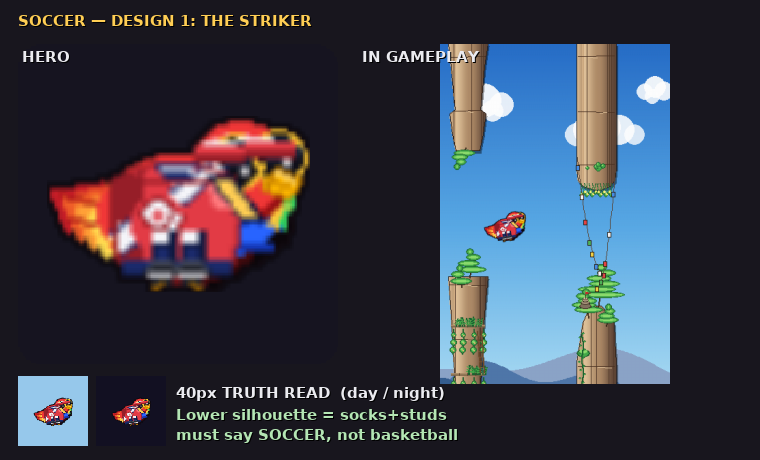
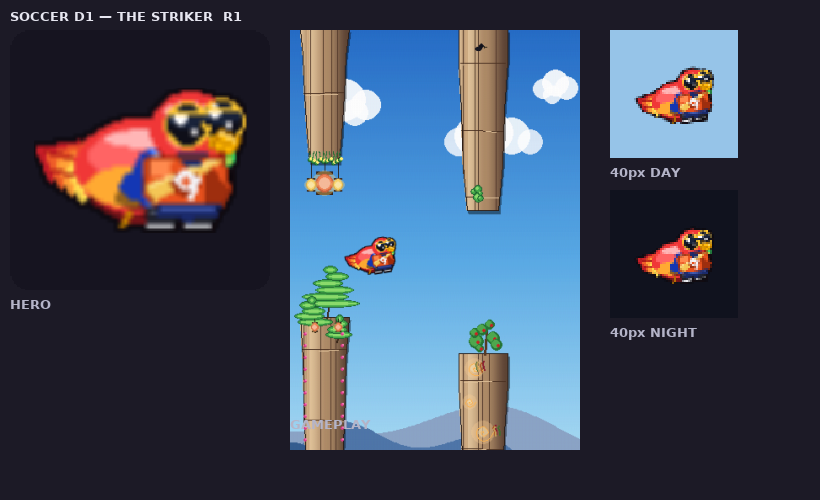
Soccer costume design 1 (THE STRIKER) v2: anchor jersey at head
Re-seat the striker kit off the HX,HY head anchor using the proven baseball
SLUGGER jersey polygon (top y=49, hem y=64) so the shirt sits below the macaw
head instead of rising into the face. Drop the forehead sweatband entirely —
soccer players wear no brow band — keeping the crown open. Vivid scarlet-orange
jersey with a white "9", gold diagonal sash, navy shorts band, and navy
knee-high socks into dark boots carry the football read at 40px.

Claude-Session: https://claude.ai/code/session_01HafGQfRZVDiGkQqpJPr5Cm

diff --git a/tools/soccer_candidates/design_1.py b/tools/soccer_candidates/design_1.py
@@ -1,23 +1,21 @@
-"""DESIGN 1 — THE STRIKER (Soccer / Football).
+"""DESIGN 1 — THE STRIKER (Soccer / Football), v2.
 
-Scratch exploration only — NOT registered in store_skins.BUILDERS. Pip the
-scarlet macaw kitted as a modern outfield striker. The read is carried by the
-full LEG KIT: two tall, CHUNKY knee-high SOCKS spread into distinct vertical
-pillars, each with a white hoop band and a dark forward-pointing CLEAT wedge
-under it. That socks+boots silhouette is the unmistakable football tell and the
-deliberate break from the basketball build — a hooper has bare calves + baggy
-shorts + sneakers, a striker has long socks and studded boots, so the LOWER
-silhouette must win the read.
+Scratch exploration only — NOT registered in store_skins.BUILDERS, so production
+is untouched. Pip the scarlet macaw kitted as a modern outfield striker.
 
-The kit is painted OVER the scarlet body (the head stays the macaw so Pip still
-reads as a parrot). A solid jersey carries a single diagonal team SASH; one
-small "9" sits low-left so a single white focal wins at 40px. The upper body is
-kept quiet (no armband) so nothing competes with the leg kit. Three cloth values
-keep the jersey reading round through the 40px downscale; dark contours hold
-every shape. Footprint law: socks+cleats sit on the feet line (~HY+13..28),
-nothing balloons the torso, only a thin sweatband touches the brow (crown open).
+v2 fix: the kit now hangs off the HEAD anchor (HX,HY) instead of the old body
+centre, using the EXACT jersey polygon proven on the baseball SLUGGER build —
+top at y=HY+8 (=49), hem at HY+23 (=64). That seats the shirt cleanly BELOW the
+macaw head; nothing rises above y=49 into the face. NO headband — soccer players
+wear no forehead band, so the crown stays open like the ball-cap baseball look.
 
-Headless render: tools/soccer_candidates/render_design_1.py.
+The read is carried by (1) a vivid scarlet-orange jersey with a bold white "9"
+and a diagonal gold sash — louder/more orange than macaw plumage so it reads as
+worn cloth, and (2) the full LEG KIT below the hem: two tall navy knee-high
+socks (each with a white hoop) dropping into dark forward-pointing boots. That
+socks+boots silhouette is the unmistakable football tell. Three cloth values
+keep the jersey round at 40px; a dark-navy contour ring holds the shape through
+the downscale.
 """
 import pygame
 
@@ -25,154 +23,116 @@ from game import store_skins
 from game.store_skins import HX, HY, CROWN_Y, _poly
 
 
-# Scarlet kit (a value above Pip's natural red so the cloth reads as worn, not
-# plumage), navy trim, white squad mark, near-black cleats. Three scarlet values
-# give the jersey roundness; the dark contour survives downscale. The socks get a
-# bright rim tone so the outer calf edge holds against the NIGHT sky.
-_SOC_RED    = (226, 59, 69)         # #E23B45 jersey scarlet
-_SOC_RED_D  = (150, 30, 40)         # cloth shadow / contour
-_SOC_RED_H  = (255, 120, 124)       # lit shoulder / chest highlight
-_SOC_WHITE  = (244, 244, 248)       # #F4F4F8 white sash / number / sole
-_SOC_NAVY   = (27, 42, 107)         # #1B2A6B navy trim / collar / sock body
-_SOC_NAVY_D = (16, 25, 64)          # navy shadow / sock contour
-_SOC_NAVY_H = (70, 92, 178)         # sock lit face / outer rim-light
-_SOC_CLEAT  = (35, 37, 46)          # #23252E cleat
-_SOC_CLEAT_H= (78, 84, 102)         # cleat upper sheen
-
-
-# Body centre in composite space (parrot body centre (32,32) + PARROT_DY=20).
-BCX, BCY = 32, 52
+# Scarlet-ORANGE kit (pushed orange so it separates from Pip's red plumage and
+# reads as a worn shirt), gold sash, white squad mark, dark-navy trim + socks,
+# near-black boots. Three jersey values give roundness; the navy contour and the
+# sock rim-light survive the downscale on both day and night sky.
+_SOC_ORN    = (232, 82, 30)         # #E8521E scarlet-orange jersey body
+_SOC_ORN_D  = (158, 46, 14)         # cloth shadow / contour ring
+_SOC_ORN_H  = (255, 138, 78)        # lit shoulder / chest highlight
+_SOC_WHITE  = (244, 244, 248)       # #F4F4F8 squad number / hoops / sole tick
+_SOC_GOLD   = (244, 198, 86)        # #F4C656 diagonal shoulder sash
+_SOC_GOLD_H = (255, 228, 150)       # sash glint
+_SOC_NAVY   = (27, 42, 107)         # #1B2A6B shorts band + sock body + contour
+_SOC_NAVY_D = (15, 23, 60)          # near-black sock core / navy shadow
+_SOC_NAVY_H = (74, 98, 184)         # sock lit face / outer rim-light
+_SOC_BOOT   = (32, 34, 44)          # near-black boot
+_SOC_BOOT_H = (90, 96, 114)         # boot instep sheen
 
 
 def _sock_and_boot(surf, fx, lit_side):
-    """One CHUNKY knee-high sock as a solid filled calf + a forward-pointing
-    boot wedge under it. `lit_side` is +1 (light from the right) / -1 so the
-    outer edge of each leg catches the rim-light against the night sky. Built
-    as filled polys — not strokes — so each leg survives the 40px downscale as a
-    distinct vertical pillar, the loudest mass below the torso."""
-    # Composite Y: the base macaw body bottoms out at y~69, so the calf emerges
-    # from under the belly (top ~58) and the ankle sits at the body floor (~70);
-    # the boot wedge breaks just past it (to ~74), mirroring how the baseball
-    # cleats poke the lower outline. This keeps the socks the loudest mass BELOW
-    # the torso instead of buried inside it.
-    top, bot = 58, 70                # tall calf, knee-under-hem to ankle
-    # Solid navy calf: a tall, NARROW tapered pillar (3px half-width) so the two
-    # legs read as two distinct vertical columns with sky between them — not a
-    # single horizontal bar. Dark contour underlay first.
-    calf = [(fx - 3, top), (fx + 3, top), (fx + 2, bot), (fx - 2, bot)]
-    _poly(surf, _SOC_NAVY_D, [(x - lit_side, y) for x, y in calf])   # contour shift
-    _poly(surf, _SOC_NAVY, calf)
-    # Lit front face — a vertical slab down the inner body so the calf reads round.
+    """One navy knee-high sock as a tall solid pillar + a forward-pointing boot
+    wedge under it. `lit_side` (+1 light from the right / -1) steers the rim-light
+    onto the OUTER calf edge so neither leg vanishes on night sky. Built as filled
+    polys so each leg holds as a distinct vertical column after the 40px downscale.
+    Spans HY+13..HY+24 so the calves emerge from under the shorts hem and the boot
+    pokes the lower outline like the baseball cleats."""
+    top, bot = HY + 13, HY + 24      # knee-under-hem to ankle (y=54..65)
+    # Near-black core pillar (narrow tapered column) under everything, contour-
+    # shifted to the outer side so the column reads round, not flat.
+    core = [(fx - 3, top), (fx + 3, top), (fx + 2, bot), (fx - 2, bot)]
+    _poly(surf, _SOC_NAVY_D, [(x - lit_side, y) for x, y in core])   # contour
+    _poly(surf, _SOC_NAVY, core)
+    # Lit mid-navy front face down the inner column so the calf reads cylindrical.
     face = [(fx, top), (fx + lit_side * 3, top),
             (fx + lit_side * 2, bot), (fx, bot)]
     _poly(surf, _SOC_NAVY_H, face)
-    # White hoop band — a FULL 2px cross-stripe spanning the whole calf width,
-    # set near the top of the sock (the classic kit stripe).
-    hb = top + 4
+    # White hoop band near the sock top — the classic kit stripe, full calf width.
+    hb = top + 3
     pygame.draw.line(surf, _SOC_WHITE, (fx - 3, hb), (fx + 3, hb), 2)
     pygame.draw.line(surf, _SOC_NAVY_D, (fx - 3, hb + 2), (fx + 3, hb + 2), 1)
-    # 1px rim-light tracing the OUTER calf edge so the sock holds on night sky.
+    # Rim-light tracing the OUTER calf edge so the sock holds on the night sky.
     rx = fx + lit_side * 3
     pygame.draw.line(surf, _SOC_NAVY_H, (rx, top + 1), (rx - lit_side, bot - 1), 1)
 
-    # Forward-pointing BOOT WEDGE: a compact solid dark cleat, toe to the FORWARD
-    # (right) side, with one bright white sole edge underneath. No stud ticks —
-    # sub-pixel noise at 40px; the wedge silhouette alone says "studded boot, not
-    # sneaker". Kept short + only just wider than the calf so the two boots stay
-    # separate and never bridge into one bar.
-    ax, ay = fx, bot                 # ankle pivot at the body floor
+    # Forward-pointing BOOT WEDGE — a compact dark cleat, toe to the FORWARD
+    # (right) side, with one bright sole tick beneath. Mirrors the SLUGGER cleat
+    # placement: short + only just wider than the calf so the two boots stay
+    # separate and never bridge into a single bar.
+    ax, ay = fx, bot
     wedge = [(ax - 3, ay - 1), (ax + 1, ay - 1), (ax + 5, ay + 2),
              (ax + 4, ay + 4), (ax - 3, ay + 4)]
-    _poly(surf, (12, 13, 18), [(x, y + 1) for x, y in wedge])         # drop shadow
-    _poly(surf, _SOC_CLEAT, wedge)
-    # Boot upper sheen along the laced instep so the dark mass reads as leather.
-    pygame.draw.line(surf, _SOC_CLEAT_H, (ax - 2, ay), (ax + 3, ay + 1), 1)
-    # Bright white sole running the length of the wedge underside — the studded
-    # boot's giveaway line.
-    pygame.draw.line(surf, _SOC_WHITE, (ax - 3, ay + 4), (ax + 4, ay + 4), 1)
+    _poly(surf, (12, 13, 18), [(x, y + 1) for x, y in wedge])        # drop shadow
+    _poly(surf, _SOC_BOOT, wedge)
+    pygame.draw.line(surf, _SOC_BOOT_H, (ax - 2, ay), (ax + 3, ay + 1), 1)  # instep
+    pygame.draw.line(surf, _SOC_WHITE, (ax - 3, ay + 4), (ax + 4, ay + 4), 1)  # sole tick
 
 
 def _paint(surf, _a):
-    # --- Tall team SOCKS + cleats at the feet line (THE soccer read) ------------
-    # Drawn FIRST so the short-shorts hem laps over the sock tops and the legs
-    # read as worn under the kit. Two distinct pillars: outer leg lit on its
-    # outer edge so neither sock vanishes on night sky.
-    _sock_and_boot(surf, 27, lit_side=-1)   # far leg, rim-light on its left edge
-    _sock_and_boot(surf, 39, lit_side=+1)   # near leg, rim-light on its right edge
+    # ── LEG KIT first (socks + boots) so the navy shorts band laps over the sock
+    #    tops and the legs read as worn UNDER the shorts. Two distinct pillars at
+    #    the feet line; outer edge of each is rim-lit so neither sock vanishes.
+    _sock_and_boot(surf, HX - 10, lit_side=-1)   # far leg, rim-light on its left
+    _sock_and_boot(surf, HX + 1,  lit_side=+1)   # near leg, rim-light on its right
 
-    # --- Solid team JERSEY over the torso ---------------------------------------
-    # One clean scarlet block clipped to the chest. Top at the shoulders, hem at
-    # ~BCY+11 so it stays inside the bird footprint; sleeve caps reach the wing
-    # roots so it reads as worn, not a bib. Fill → side shade → lit edge gives
-    # the cloth three values so it stays round after the downscale.
-    jersey = [(BCX - 15, BCY - 9), (BCX - 16, BCY - 1), (BCX - 14, BCY + 11),
-              (BCX + 13, BCY + 11), (BCX + 15, BCY - 1), (BCX + 13, BCY - 9),
-              (BCX + 4, BCY - 12), (BCX - 6, BCY - 12)]
-    _poly(surf, _SOC_RED, jersey)
-    # Far side falls into shadow; near shoulder catches the light.
-    _poly(surf, _SOC_RED_D, [(BCX - 15, BCY - 9), (BCX - 16, BCY - 1),
-                             (BCX - 14, BCY + 11), (BCX - 8, BCY + 11),
-                             (BCX - 9, BCY - 10)])
-    _poly(surf, _SOC_RED_H, [(BCX + 4, BCY - 12), (BCX + 13, BCY - 9),
-                             (BCX + 15, BCY - 1), (BCX + 9, BCY - 2),
-                             (BCX + 6, BCY - 11)])
+    # ── JERSEY — the EXACT baseball-SLUGGER polygon at the HX,HY anchor (top
+    #    y=HY+8=49, hem y=HY+23=64), so the shirt seats cleanly BELOW the head and
+    #    nothing rises into the face. Scarlet-orange fill → off-side shade → near
+    #    shoulder highlight gives the cloth three values so it stays round at 40px.
+    jersey = [(HX - 13, HY + 8), (HX - 14, HY + 18), (HX - 10, HY + 23),
+              (HX + 8, HY + 23), (HX + 11, HY + 18), (HX + 9, HY + 8)]
+    _poly(surf, _SOC_ORN, jersey)
+    _poly(surf, _SOC_ORN_D, [(HX + 4, HY + 9), (HX + 11, HY + 18),
+                             (HX + 8, HY + 23), (HX + 5, HY + 22)])   # off-side shade
+    _poly(surf, _SOC_ORN_H, [(HX - 12, HY + 9), (HX - 6, HY + 9),
+                             (HX - 7, HY + 14), (HX - 13, HY + 13)])  # lit shoulder
 
-    # --- Diagonal team SASH across the chest ------------------------------------
-    # A single white band running shoulder-to-hip — the modern outfield mark, and
-    # the ONE white focal up top. Clipped to the cloth so it never leaks past the
-    # contour; a navy edge crisps it for the downscale.
+    # ── DIAGONAL GOLD shoulder sash, shoulder-to-hip — the modern outfield mark.
+    #    Clipped to the jersey box so it never leaks past the contour; a glint line
+    #    keeps it bright against the night sky.
     clip_prev = surf.get_clip()
-    surf.set_clip(pygame.Rect(BCX - 16, BCY - 12, 32, 24))
-    sash = [(BCX - 16, BCY + 4), (BCX - 13, BCY + 9),
-            (BCX + 11, BCY - 11), (BCX + 8, BCY - 13)]
-    _poly(surf, _SOC_WHITE, sash)
-    pygame.draw.line(surf, _SOC_NAVY, (BCX - 16, BCY + 4), (BCX + 8, BCY - 13), 1)
-    pygame.draw.line(surf, _SOC_NAVY, (BCX - 13, BCY + 9), (BCX + 11, BCY - 11), 1)
+    surf.set_clip(pygame.Rect(HX - 14, HY + 7, 26, 17))
+    sash = [(HX - 13, HY + 16), (HX - 11, HY + 21),
+            (HX + 9, HY + 9), (HX + 7, HY + 8)]
+    _poly(surf, _SOC_GOLD, sash)
+    pygame.draw.line(surf, _SOC_GOLD_H, (HX - 12, HY + 16), (HX + 8, HY + 8), 1)
     surf.set_clip(clip_prev)
 
-    # Re-edge the cloth so the sash stops at the seam, and drop a shoulder-seam
-    # line so the sleeves read set-in.
-    pygame.draw.polygon(surf, _SOC_RED_D, jersey, 1)
-    pygame.draw.line(surf, _SOC_RED_D, (BCX - 13, BCY - 8), (BCX + 11, BCY - 8), 1)
+    # ── Navy crew COLLAR + dark contour RING so the jersey reads as a team shirt
+    #    and the whole shape crisps at the downscale.
+    _poly(surf, _SOC_NAVY, [(HX - 4, HY + 7), (HX + 4, HY + 7),
+                            (HX + 2, HY + 10), (HX - 2, HY + 10)])
+    pygame.draw.line(surf, _SOC_WHITE, (HX - 3, HY + 8), (HX + 3, HY + 8), 1)
+    pygame.draw.polygon(surf, _SOC_ORN_D, jersey, 1)
 
-    # Crew collar — a small navy/white notch so the jersey reads as a team shirt.
-    _poly(surf, _SOC_NAVY, [(BCX - 5, BCY - 12), (BCX + 4, BCY - 12),
-                            (BCX + 2, BCY - 9), (BCX - 3, BCY - 9)])
-    pygame.draw.line(surf, _SOC_WHITE, (BCX - 4, BCY - 11), (BCX + 3, BCY - 11), 1)
+    # ── Bold white squad "9" at mid-chest (HX-2 column, HY+13..18) — the ONE
+    #    white focal up top. A loop bowl over a short tail, fattened so it survives
+    #    downscale; an orange shadow plate behind it lifts it off the cloth.
+    nx, ny = HX - 2, HY + 13
+    pygame.draw.ellipse(surf, _SOC_ORN_D, (nx - 4, ny - 1, 9, 8))     # shadow plate
+    pygame.draw.ellipse(surf, _SOC_WHITE, (nx - 3, ny - 1, 7, 6))     # bowl ring
+    pygame.draw.ellipse(surf, _SOC_ORN,  (nx - 1, ny + 1, 3, 3))      # bowl hole
+    pygame.draw.line(surf, _SOC_WHITE, (nx + 3, ny + 1), (nx + 1, ny + 7), 2)  # tail
 
-    # --- Squad NUMBER "9" — small, low-left, thick dark rim ----------------------
-    # Shrunk ~25% and pushed low-left so it never competes with the sash for the
-    # white focal; a thick scarlet plate with a heavy dark rim separates the digit
-    # from the sash so at 40px the sash wins one clean white and the "9" reads as
-    # a small kit mark, not a second smear.
-    nx, ny = BCX - 7, BCY + 5
-    pygame.draw.ellipse(surf, _SOC_RED_D, (nx - 5, ny - 6, 11, 12))   # thick rim
-    pygame.draw.ellipse(surf, _SOC_RED, (nx - 4, ny - 5, 9, 10))
-    # Bowl of the 9 (dark ring → small white loop → red centre).
-    pygame.draw.ellipse(surf, _SOC_RED_D, (nx - 3, ny - 4, 6, 6))
-    pygame.draw.ellipse(surf, _SOC_WHITE, (nx - 2, ny - 3, 5, 4))
-    pygame.draw.ellipse(surf, _SOC_RED, (nx, ny - 2, 2, 2))
-    # Short tail of the 9 dropping from the bowl's lower-right.
-    pygame.draw.line(surf, _SOC_RED_D, (nx + 3, ny - 1), (nx + 1, ny + 5), 3)
-    pygame.draw.line(surf, _SOC_WHITE, (nx + 3, ny - 1), (nx + 1, ny + 5), 1)
-
-    # --- Short SHORTS hem lapping over the sock tops -----------------------------
-    # A navy hem band closes the kit at the sock tops (~y55..58) so the leg kit
-    # reads as worn shorts over socks, not bare body; the socks emerge from under
-    # it. A scalloped pair of hem dips between the legs sells the two-leg read.
-    _poly(surf, _SOC_NAVY, [(BCX - 13, BCY + 3), (BCX + 12, BCY + 3),
-                            (BCX + 11, BCY + 7), (BCX + 5, BCY + 6),
-                            (BCX + 1, BCY + 8), (BCX - 5, BCY + 6),
-                            (BCX - 11, BCY + 8)])
-    pygame.draw.line(surf, _SOC_NAVY_D, (BCX - 13, BCY + 4), (BCX + 12, BCY + 4), 1)
-    pygame.draw.line(surf, _SOC_WHITE, (BCX - 12, BCY + 4), (BCX + 10, BCY + 4), 1)
-
-    # --- Thin brow sweatband (keeps the macaw reading, crown open) --------------
-    # A slim scarlet band across the brow with a white edge — a sport tell that
-    # adds no headgear bulk, so Pip's macaw head stays recognizable.
-    pygame.draw.line(surf, _SOC_RED_D, (HX - 11, CROWN_Y + 6), (HX + 12, CROWN_Y + 5), 4)
-    pygame.draw.line(surf, _SOC_RED, (HX - 11, CROWN_Y + 5), (HX + 12, CROWN_Y + 4), 2)
-    pygame.draw.line(surf, _SOC_WHITE, (HX - 9, CROWN_Y + 4), (HX + 6, CROWN_Y + 3), 1)
+    # ── SHORTS — a dark-navy band just below the jersey hem (HY+23..26) so a
+    #    shorts-hem shows between shirt and socks. A scalloped pair of hem dips
+    #    between the legs sells the two-leg read.
+    _poly(surf, _SOC_NAVY, [(HX - 10, HY + 22), (HX + 8, HY + 22),
+                            (HX + 7, HY + 26), (HX + 2, HY + 25),
+                            (HX - 1, HY + 27), (HX - 4, HY + 25),
+                            (HX - 9, HY + 26)])
+    pygame.draw.line(surf, _SOC_NAVY_D, (HX - 10, HY + 23), (HX + 8, HY + 23), 1)
+    pygame.draw.line(surf, _SOC_NAVY_H, (HX - 9, HY + 23), (HX + 6, HY + 23), 1)
 
 
 build = store_skins._make_skin(_paint)
